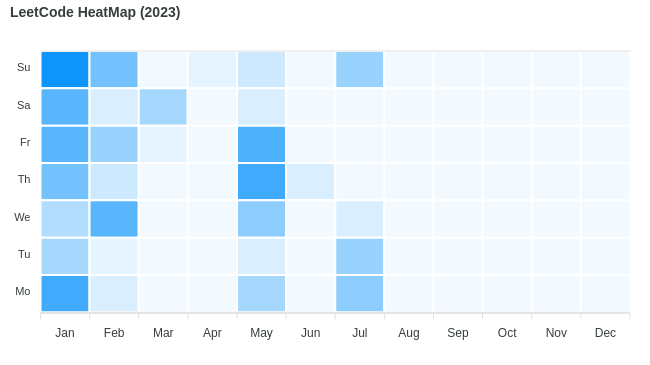
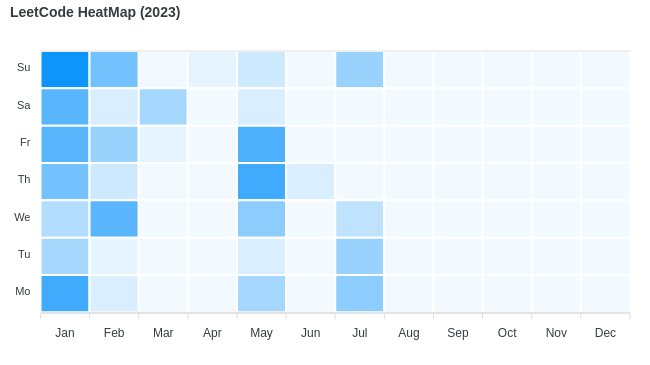
update heatmap.png

Changed region(s): [[0.4923, 0.5425, 0.6154, 0.663]]

diff --git a/README.md b/README.md
@@ -4,7 +4,7 @@
 
 Collection of LeetCode questions to ace the coding interview! - Created using [LeetHub](https://github.com/QasimWani/LeetHub)
 
-> Questions solved 386 uniq: 156
+> Questions solved 388 uniq: 158
 
 ## Contribution 
 
